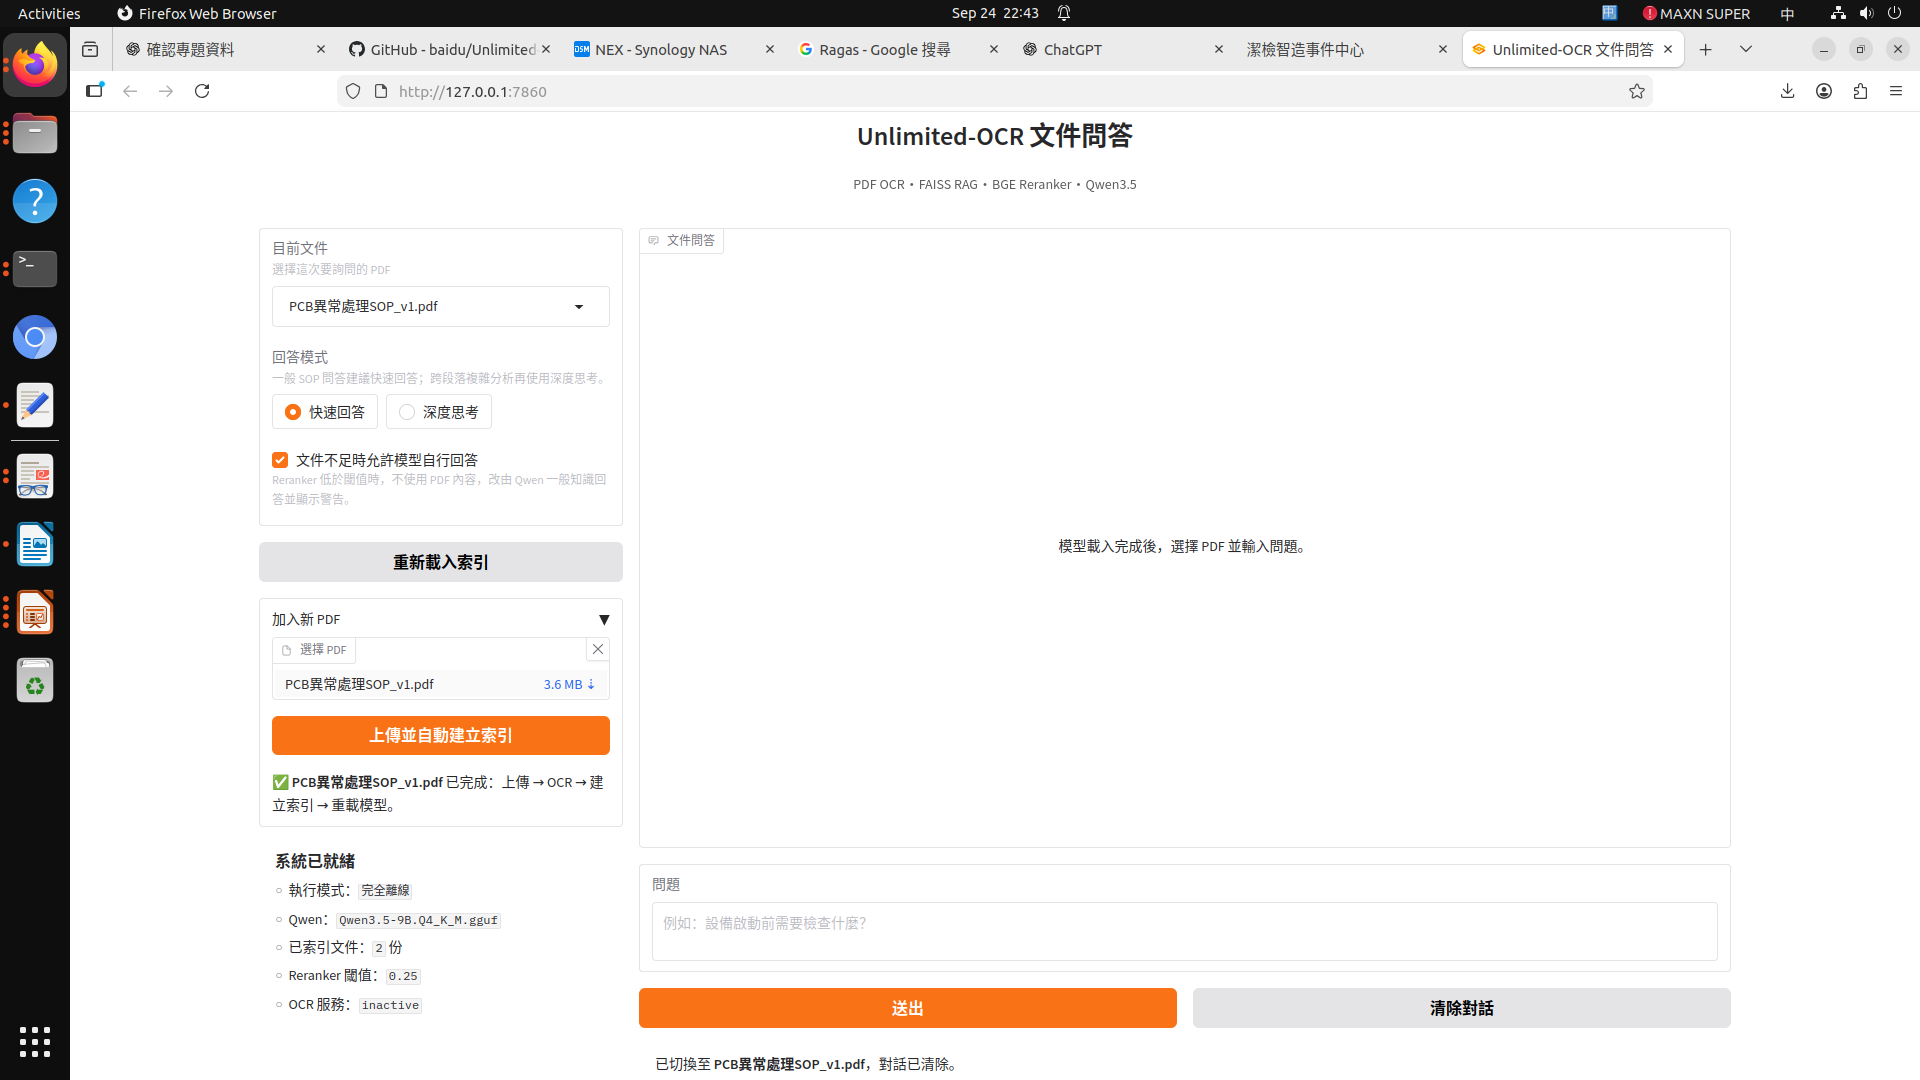
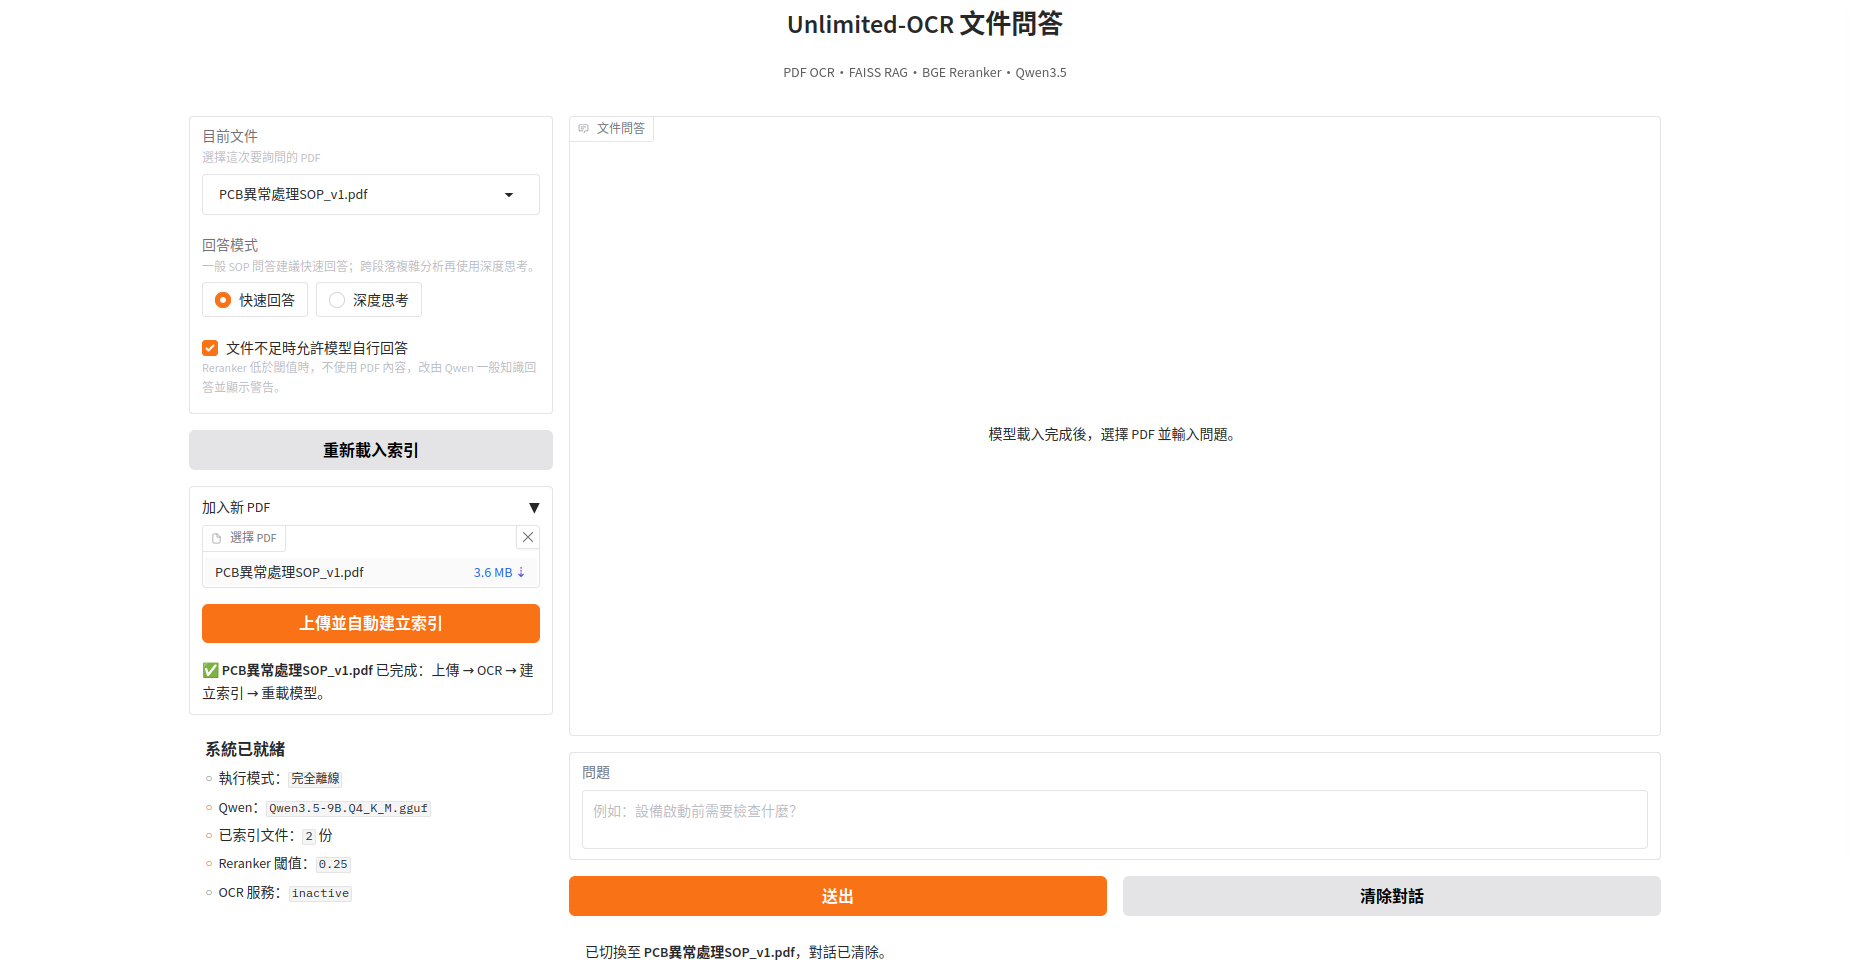
Crop device screenshot to show only the application interface

diff --git a/docs/screenshots/README.md b/docs/screenshots/README.md
@@ -6,7 +6,10 @@
 - 來源：本機 `Pictures/Screenshots` 資料夾
 - 裝置：EAC-6000 / NVIDIA Jetson Orin NX 16GB
 - 內容：Firefox 開啟 `http://127.0.0.1:7860` 的 Unlimited-OCR Gradio GUI，PDF 已完成上傳、OCR、建立索引與重新載入模型。
-- 尺寸：1920 × 1080
[1 lines of base64/hex data omitted]
+- 原始尺寸：1920 × 1080
+- 裁切後尺寸：1850 × 968
+- 裁切範圍：原圖左上角 `(70, 112)` 至右下角 `(1920, 1080)`，移除上方瀏覽器列與左側桌面工具列
[2 lines of base64/hex data omitted]
 
-圖片與原始 PNG 逐位元組一致，未重畫、裁切或合成。這是既有實機執行記錄，並非本次發布時重新執行 OCR 所擷取的畫面。
+圖片只裁掉上方與左側，保留區域的像素與原始截圖一致。這是既有實機執行記錄，並非本次發布時重新執行 OCR 所擷取的畫面。

diff --git a/README.md b/README.md
@@ -10,7 +10,7 @@
 
 ![Jetson 實機：Unlimited-OCR 文件問答與 PDF 上傳完成](docs/screenshots/jetson-gradio-upload.png)
 
-圖片保留原始截圖內容，來源與 SHA-256 記錄於 [截圖說明](docs/screenshots/README.md)。
+圖片已裁除上方瀏覽器列與左側桌面工具列，保留應用程式畫面；來源、裁切範圍與 SHA-256 記錄於 [截圖說明](docs/screenshots/README.md)。
 
 ## 功能
 
